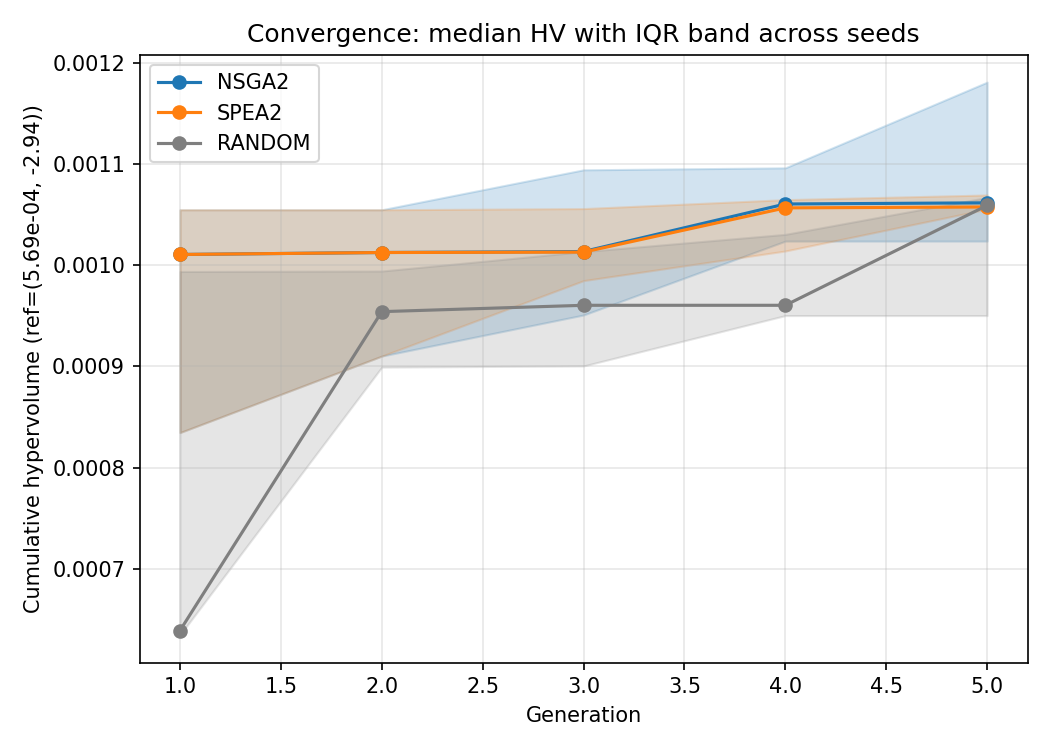
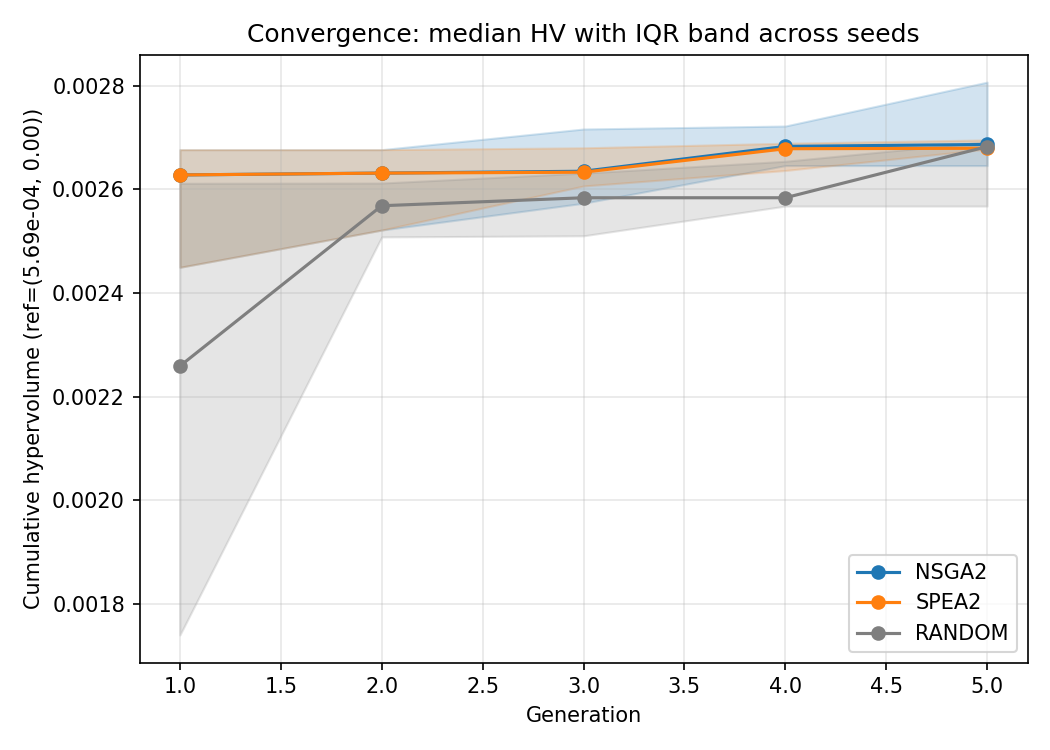
fix HV reference point, random search reads bounds from problem
- quality ref = 0 (worst rubric score); old max*1.05 on negated quality
  moved the ref inside the worst point
- exclude failed evals (1.0, 0.0) from the cost ref
- run_random samples from ClueGenProblem.vars (replays saved seeds identically)
- boxplot labels -> tick_labels, matplotlib>=3.9
- regenerate stats + plots (p-values and A12 unchanged)

diff --git a/algos/run.py b/algos/run.py
@@ -9,7 +9,6 @@ from pymoo.core.mixed import MixedVariableSampling, MixedVariableMating, MixedVa
 from pymoo.optimize import minimize
 
 from algos.problem import ClueGenProblem
-from clue_pipeline.generator import MODELS, PROMPT_TEMPLATES
 from clue_pipeline.runner import evaluate_config, sample_puzzles
 
 
@@ -74,10 +73,15 @@ def run_pymoo(algo, seed, problem):
     return callback.history, front
 
 
-def run_random(seed, puzzle_indices, grader_runs):
+def run_random(seed, problem):
+    # Sample from the same decision-variable space the GAs search (ClueGenProblem.vars).
+    # Keep the rng call order below unchanged, or seeds stop reproducing their saved runs.
     rng = pyrandom.Random(seed)
-    models = list(MODELS.keys())
-    templates = list(PROMPT_TEMPLATES.keys())
+    v = problem.vars
+    models = list(v["model"].options)
+    templates = list(v["template"].options)
+    n_lo, n_hi = v["n_clues"].bounds
+    t_lo, t_hi = v["temperature"].bounds
     history = []
     all_evals = []
     for _ in range(GENS):
@@ -86,16 +90,17 @@ def run_random(seed, puzzle_indices, grader_runs):
             x = {
                 "model": rng.choice(models),
                 "template": rng.choice(templates),
-                "n_clues": rng.randint(3, 8),
-                "temperature": rng.uniform(0.0, 1.0),
+                "n_clues": rng.randint(n_lo, n_hi),
+                "temperature": rng.uniform(t_lo, t_hi),
             }
             cfg = f"{x['model']}/{x['template']}/n={x['n_clues']}/T={x['temperature']:.2f}"
             try:
                 result = evaluate_config(
                     model=x["model"], template=x["template"],
                     n_clues=x["n_clues"], temperature=x["temperature"],
-                    puzzle_indices=puzzle_indices,
-                    grader_runs=grader_runs, progress=False,
+                    puzzle_indices=problem.puzzle_indices,
+                    grader_model=problem.grader_model,
+                    grader_runs=problem.grader_runs, progress=False,
                 )
                 F = [float(result.mean_gen_cost), float(-result.mean_quality)]
                 print(f"[eval] {cfg} -> cost=${result.mean_gen_cost:.5f} q={result.mean_quality:.2f}", flush=True)
@@ -137,7 +142,7 @@ def monrp():
                 continue
             print(f"\n=== {algo} seed={seed} ===")
             if algo == "random":
-                history, front = run_random(seed, puzzle_indices, GRADER_RUNS)
+                history, front = run_random(seed, problem)
             else:
                 history, front = run_pymoo(algo, seed, problem)
             data = {

diff --git a/algos/plot.py b/algos/plot.py
@@ -8,6 +8,7 @@ from scipy.stats import mannwhitneyu
 
 RESULTS = Path(__file__).resolve().parent.parent / "results"
 ALGOS = [("nsga2", "tab:blue"), ("spea2", "tab:orange"), ("random", "tab:gray")]
+FAILED_F = (1.0, 0.0)  # objective values recorded when an evaluation raises (see problem.py / run.py)
 
 
 def load_runs(algo: str) -> list[dict]:
@@ -38,14 +39,17 @@ def _hv_2d(points, ref):
 
 
 def _global_ref(all_runs):
-    f0s, f1s = [], []
+    """Shared HV reference point: 5% past the worst observed cost, and quality = 0
+    (the rubric's worst possible score, so f1 = 0). Failed evaluations are
+    skipped so their sentinel cost of 1.0 can't inflate the cost axis."""
+    f0s = []
     for runs in all_runs.values():
         for r in runs:
             for gen in r["history"]:
                 for f0, f1 in gen:
-                    f0s.append(f0)
-                    f1s.append(f1)
-    return max(f0s) * 1.05, max(f1s) * 1.05
+                    if (f0, f1) != FAILED_F:
+                        f0s.append(f0)
+    return max(f0s) * 1.05, 0.0
 
 
 def _final_hv(run, ref):
@@ -85,7 +89,7 @@ def plot_hv_boxplot(all_runs, ref):
     data = [hv_per_algo[a] for a, _ in ALGOS]
     labels = [a.upper() for a, _ in ALGOS]
     colors = [c for _, c in ALGOS]
-    bp = plt.boxplot(data, labels=labels, patch_artist=True, showmeans=True)
+    bp = plt.boxplot(data, tick_labels=labels, patch_artist=True, showmeans=True)
     for patch, c in zip(bp["boxes"], colors):
         patch.set_facecolor(c)
         patch.set_alpha(0.5)

diff --git a/results/stats.md b/results/stats.md
@@ -6,9 +6,9 @@ Seeds per algorithm: **5**
 
 | Algorithm | Median | Mean | Std | Min | Max |
 |---|---|---|---|---|---|
-| NSGA2 | 0.001062 | 0.001103 | 0.0001123 | 0.0009906 | 0.001257 |
-| SPEA2 | 0.001058 | 0.001065 | 5.225e-05 | 0.0009993 | 0.001145 |
-| RANDOM | 0.001059 | 0.001019 | 0.0001029 | 0.0008806 | 0.001139 |
+| NSGA2 | 0.002687 | 0.002727 | 0.0001136 | 0.002614 | 0.002883 |
+| SPEA2 | 0.002679 | 0.00269 | 5.243e-05 | 0.002625 | 0.002771 |
+| RANDOM | 0.002683 | 0.002643 | 0.0001047 | 0.002505 | 0.002766 |
 
 ## Pairwise Mann-Whitney U (two-sided) and Vargha-Delaney A12
 
